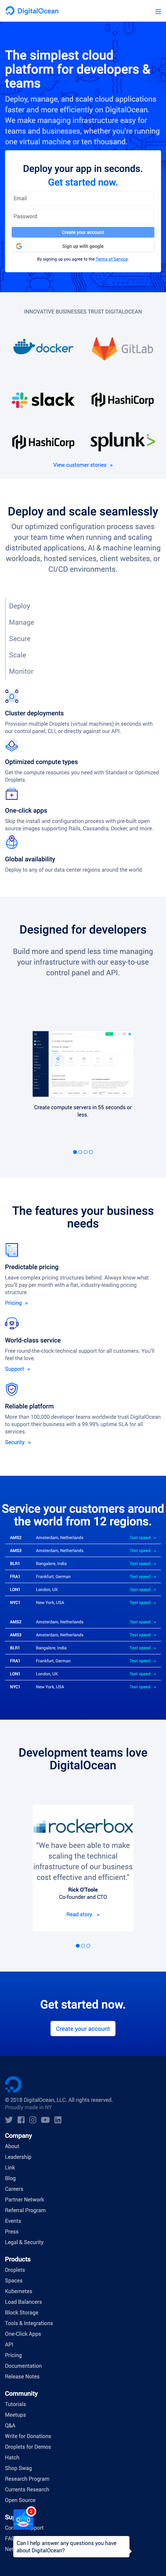
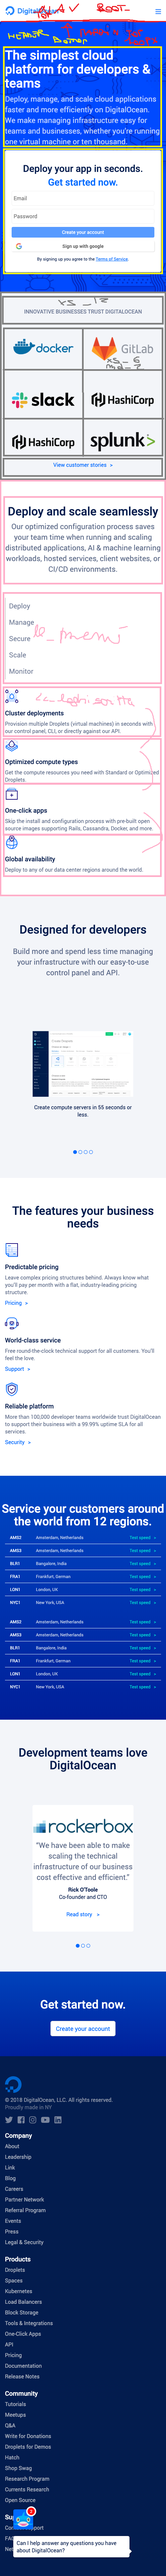
fine griglia

diff --git a/index.html b/index.html
@@ -94,8 +94,116 @@
         </div>
       </div>
     </div>
+
+    <!-- classe con titolo designed for developers -->
+    <div class="ll_designedfordevelopers">
+      <div class="container">
+        <div class="row">
+          <div class="col-xs-12">
+            <!-- h1 contenente il titolo designed for developers -->
+            <!-- p contenente la didascalia sotto -->
+          </div>
+          <div class="col-xs-12">
+            <!-- immagine con le frecciette, la scritta sotto e i pallini sotto -->
+          </div>
+        </div>
+      </div>
+    </div>
+
+    <!-- sezione con titolo the features   -->
+    <div class="ll_features">
+      <div class="container">
+        <div class="row">
+          <div class="col-xs-12">
+            <!-- contiene un  h1 con il titolo the features... -->
+          </div>
+        </div>
+        <div class="row">
+          <div class="col-xs-12 col-md-4">
+            <!-- immagine con sotto un testo e con sotto un link di colore blu con la freccietta -->
+          </div>
+          <div class="col-xs-12 col-md-4">
+            <!-- immagine con sotto un testo e con sotto un link di colore blu con la freccietta -->
+          </div>
+          <div class="col-xs-12 col-md-4">
+            <!-- immagine con sotto un testo e con sotto un link di colore blu con la freccietta -->
+          </div>
+        </div>
+      </div>
+
+    </div>
+
+    <!-- sezione che contiene la tabella e che ha il background color con il gradient -->
+    <div class="ll_tabellatestspeed">
+      <div class="container">
+        <div class="row">
+          <div class="col-xs-12">
+            <!-- contiene il testo della sezione -->
+          </div>
+        </div>
+        <div class="row">
+          <div class="col-xs-12 col-lg-12">
+            <!-- conterrà i div per fare la tabella -->
+          </div>
+          <div class="col-xs-12 col-lg-12">
+            <!-- conterrà i div per fare la tabella -->
+          </div>
+        </div>
+      </div>
+    </div>
+
+    <div class="ll_designedfordevelopers">
+      <div class="container">
+        <div class="row">
+          <div class="col-xs-12">
+            <!-- h1 contenente il titolo designed for developers -->
+            <!-- p contenente la didascalia sotto -->
+          </div>
+          <div class="col-xs-12">
+            <!-- immagine con le frecciette, la scritta sotto e i pallini sotto -->
+          </div>
+        </div>
+      </div>
+    </div>
+
+    <!-- get started now -->
+    <div class="ll_getstarted">
+      <div class="container">
+        <div class="row">
+          <div class="col-xs-12">
+            <!-- h1 con get started -->
+            <!-- bottone -->
+          </div>
+        </div>
+      </div>
+    </div>
   </main>
 
+  <footer>
+
+    <!-- footer -->
+    <div class="ll_footer">
+
+      <div class="container">
+
+        <div class="row">
+
+          <div class="col-xs-12 col-lg-5"></div>
+
+          <div class="col-xs-12 col-lg-7 ll_nested">
+
+            <div class="row">
+              <div class="col-xs-12 col-md-6 col-lg-3"></div>
+              <div class="col-xs-12 col-md-6 col-lg-3"></div>
+              <div class="col-xs-12 col-md-6 col-lg-3"></div>
+              <div class="col-xs-12 col-md-6 col-lg-3"></div>
+            </div>
+
+          </div>
+        </div>
+      </div>
+    </div>
+  </footer>
 
 
 

diff --git a/assets/css/style.css b/assets/css/style.css
@@ -48,6 +48,9 @@ main{
 
 
 /* sezione deploy and scale seamlessly */
+.ll_delayandscale {
+  background-color: red;
+}
 
 .ll_delayandscale .container{
   padding-left: 40px;
@@ -62,5 +65,87 @@ main{
 }
 /* classe da cancellare una volta finito l'esercizio */
 .ll_delayandscale .container .row .ll_nested{
+  height: auto;
+}
+
+/* sezione con titolo designed for developers */
+
+.ll_designedfordevelopers .container{
+  padding-left: 40px;
+  padding-right: 40px;
+  padding-top: 60px;
+  padding-bottom: 60px;
+}
+
+.ll_designedfordevelopers .container .row [class*="col-"]{
+  height: 100px;
+  border: 2px solid red;
+}
+
+/* sezione con titolo features */
+.ll_features .container{
+  padding-left: 40px;
+  padding-right: 40px;
+  padding-top: 60px;
+  padding-bottom: 60px;
+}
+
+.ll_features .container .row [class*="col-"]{
+  height: 100px;
+  border: 2px solid orange;
+}
+
+/* sezione con la tabella */
+.ll_tabellatestspeed {
+  background-image: linear-gradient(to right, red,orange,yellow,green,blue,indigo,violet);
+}
+.ll_tabellatestspeed .container{
+  padding-left: 40px;
+  padding-right: 40px;
+  padding-top: 60px;
+  padding-bottom: 60px;
+}
+
+.ll_tabellatestspeed .container .row [class*="col-"]{
+  height: 100px;
+  border: 2px solid green;
+}
+
+/* sezione get started */
+.ll_getstarted{
+  background-image: linear-gradient(to right, red,orange,yellow,green,blue,indigo,violet);
+}
+
+.ll_getstarted .container{
+  padding-left: 40px;
+  padding-right: 40px;
+  padding-top: 60px;
+  padding-bottom: 60px;
+}
+
+.ll_getstarted .container .row [class*="col-"]{
+  height: 100px;
+  border: 2px solid green;
+}
+
+/* footer */
+
+.ll_footer{
+  background-color: chocolate;
+}
+
+.ll_footer .container{
+  padding-left: 40px;
+  padding-right: 40px;
+  padding-top: 60px;
+  padding-bottom: 60px;
+}
+
+.ll_footer .container .row [class*="col-"]{
+  height: 100px;
+  border: 2px solid black;
+}
+
+.ll_footer .container .row .ll_nested{
   height: auto;
 }
